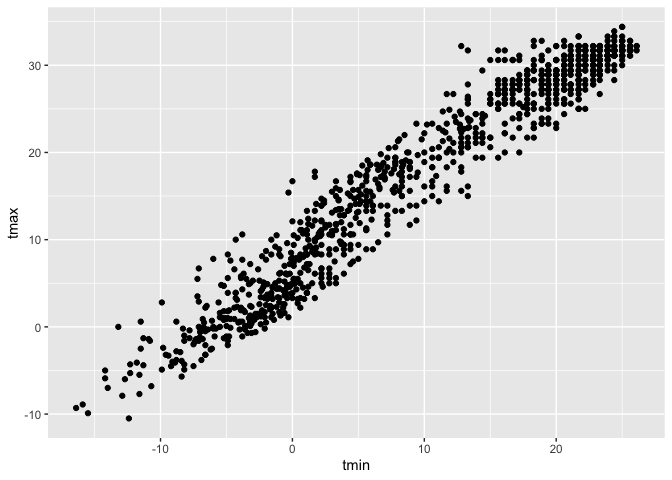
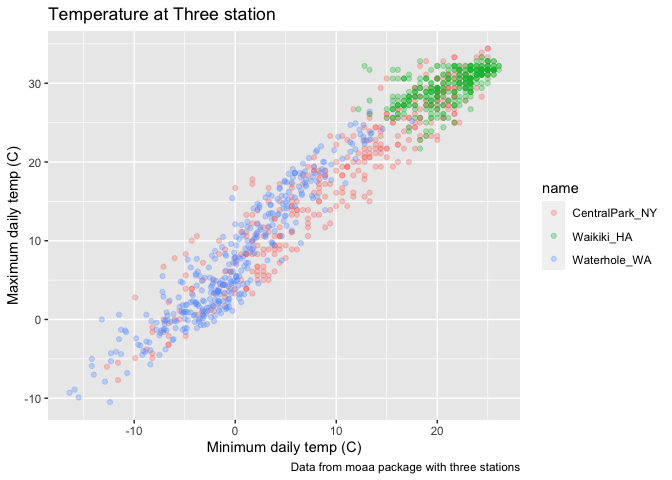
themes, scales

diff --git a/visualization_pt2.md b/visualization_pt2.md
@@ -1,4 +1,4 @@
-ggplot 1
+ggplot 2
 ================
 
 load in a dataset
@@ -66,10 +66,86 @@ Start making some plots # Scatterplot tmax vs. tmin in a scatterplot
 
 ``` r
 weather_df %>% 
-  ggplot(aes(x = tmin, y = tmax)) + 
-  geom_point()
+  ggplot(aes(x = tmin, y = tmax, color = name)) + 
+  geom_point(alpha = 0.3) + 
+  labs(
+    title = "Temperature at Three station",
+    x = "Minimum daily temp (C)",
+    y = "Maximum daily temp (C)",
+    caption = "Data from moaa package with three stations"
+  )
 ```
 
     ## Warning: Removed 15 rows containing missing values (geom_point).
 
-![](visualization_pt2_files/figure-gfm/unnamed-chunk-4-1.png)<!-- -->
+![](visualization_pt2_files/figure-gfm/unnamed-chunk-4-1.png)<!-- --> ##
+Scales
+
+``` r
+weather_df %>% 
+  ggplot(aes(x = tmin, y = tmax, color = name)) + 
+  geom_point(alpha = 0.3) + 
+  labs(
+    title = "Temperature at Three station",
+    x = "Minimum daily temp (C)",
+    y = "Maximum daily temp (C)",
+    caption = "Data from moaa package with three stations"
+  ) + 
+  scale_x_continuous(  # continuous variable on the x axis
+    breaks = c(-15, 0, 15),
+    labels = c("-15 C", "0", "15")
+  ) + 
+  scale_y_continuous(
+    trans = "sqrt",  # sqrt transformation
+    position = "right"
+  )
+```
+
+    ## Warning in self$trans$transform(x): NaNs produced
+
+    ## Warning: Transformation introduced infinite values in continuous y-axis
+
+    ## Warning: Removed 90 rows containing missing values (geom_point).
+
+![](visualization_pt2_files/figure-gfm/unnamed-chunk-5-1.png)<!-- -->
+Color scales
+
+``` r
+weather_df %>% 
+  ggplot(aes(x = tmin, y = tmax, color = name)) + 
+  geom_point(alpha = 0.5) + 
+  labs(
+    title = "Temperature at Three station",
+    x = "Minimum daily temp (C)",
+    y = "Maximum daily temp (C)",
+    caption = "Data from moaa package with three stations"
+  ) + 
+  #scale_color_hue(h = c(100, 300))
+  scale_color_viridis_d()  # d for discrete variable 
+```
+
+    ## Warning: Removed 15 rows containing missing values (geom_point).
+
+![](visualization_pt2_files/figure-gfm/unnamed-chunk-6-1.png)<!-- --> ##
+Themes aren’t scale/ mapping related, but just to make plots look nicer
+
+``` r
+weather_df %>% 
+  ggplot(aes(x = tmin, y = tmax, color = name)) + 
+  geom_point(alpha = 0.5) + 
+  labs(
+    title = "Temperature at Three station",
+    x = "Minimum daily temp (C)",
+    y = "Maximum daily temp (C)",
+    caption = "Data from moaa package with three stations"
+  ) + 
+  scale_color_viridis_d() +
+  theme_minimal() + # change background theme to bw/ classic/ minimal
+  #ggthemes::theme_excel() + # graphs look like coming right from excel
+  theme(legend.position = "bottom")
+```
+
+    ## Warning: Removed 15 rows containing missing values (geom_point).
+
+![](visualization_pt2_files/figure-gfm/unnamed-chunk-7-1.png)<!-- -->
+you can also set global features, codes in www.p8105.com
